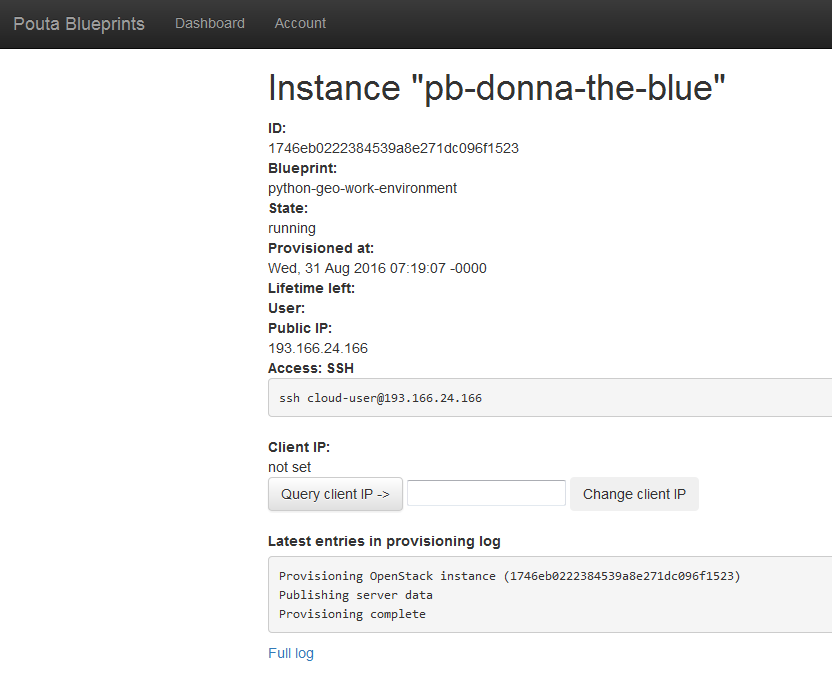
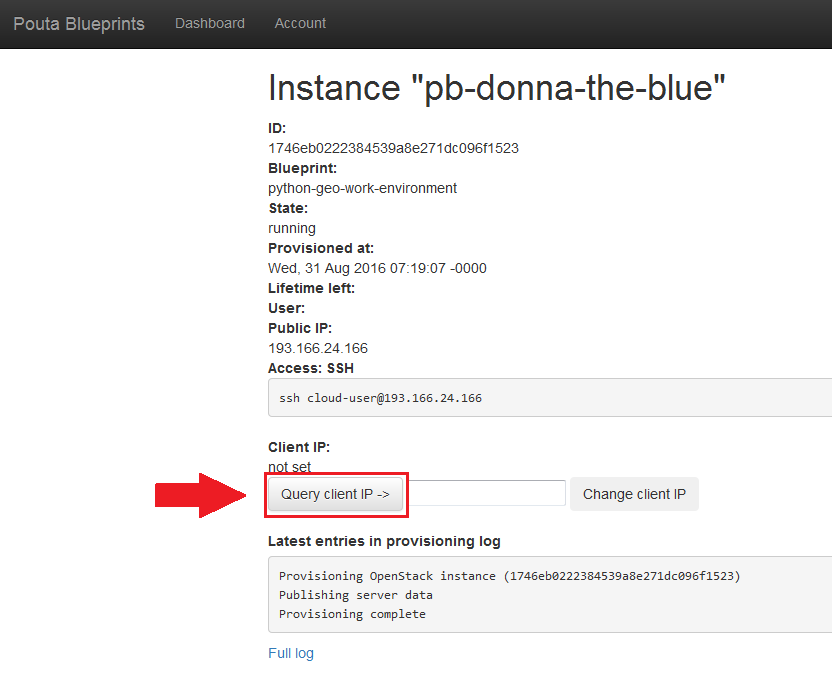
Added docs how to create a new instance and open a port by changing Firewall rules.

Changed region(s): [[0.1875, 0.6824, 0.5, 0.7755]]

diff --git a/launch-instance.md b/launch-instance.md
@@ -1,24 +1,36 @@
 # 1. Launch a new computer instance
 
 Launching a new instance is a straightforward procedure which is done from the Computing Dashboard. 
+Here we first launch a new Computer Instance and then open a port to it from your local computer's IP address (steps 5-6).
+A port in a computer is a somewhat similar idea than 
+having a door in a house: you cannot access the house without having an open door.
 
  1. Go with a browser to [pb-geo.helsinki.fi](pb-geo.helsinki.fi) OR WHATEVER THE ADDRESS WILL BE!
  
- 2. Log into Computing Dashboard
+ 2. Login to the Computing Dashboard
  
- 3. Launch a new instance
+   ![Login to Computing Dashboard](img/7_log_in.PNG)
+ 
+ 3. `Launch new` computer instance
+ 
+   ![Launch Computer Instance](img/8_launch_intance.PNG)
  
  4. Wait until instance is ready (you'll see WHAT?) and 
  go to instance details by pressing it's name 
  (here 'pb-donna-the-blue' but it changes every time)
-  
- 5. Press 'Query client IP' button
  
- 6. Press 'Change client IP' button
+   ![Go to instance details](img/9_go_to_instance_details.PNG)
+  
+ 5. Press `Query client IP` button
+ 
+   ![Query client IP](img/10_query_client_IP.PNG)
+ 
+ 6. Press `Change client IP` button
+ 
+   ![Change client IP](img/11_change_client_IP.PNG)
  
  7. Go back to Dashboard tab
-  
-Steps 5 and 6 are done to open a port to the computer instance from your local computer. A port in a computer is a somewhat similar idea than 
-having a door in a house: you cannot access the house without having an open door.
  
-Next step is to [connect to it](connect-to-instance.md).
+   ![Access Dashboard](img/12_go_back_to_dashboard.PNG)
+  
+Next step is to **[connect to it](connect-to-instance.md)**.

diff --git a/intro-to-course-environment.md b/intro-to-course-environment.md
@@ -1,15 +1,16 @@
 # Introduction to the course environment
 
 We'll start using the course environment by creating and activating a Computing Dashboard account and launching our first Computer Instance. 
+You will do the steps 2-3 repeatedly during the course so it will become familiar to you after awhile. 
 
 Here are the steps that you need to follow:
 
  1. [Activate your account to the computing dashboard\*\*](activate-pb-account.md)
  
- 2. [Log into the Computing Dashboard and start the computer instance](log-in-to-pb-and-access.md)
+ 2. [Log into the Computing Dashboard and launch a Computer Instance](launch-instance.md)
  
- 3. [Connect to the computer instance from you local computer](log-in-to-pb-and-access.md#access)
- 
+ 3. [Connect to Computer Instance from you local computer](connect-to-instance.md)
+
 \*\*done only once when starting the course
 
 ## Some basic principles about the course environment

diff --git a/connect-to-instance.md b/connect-to-instance.md
@@ -43,11 +43,11 @@ compared to TightVNC. However, it is highly recommendable option since it can be
   
   <img src="https://github.com/Python-for-geo-people/Intro-to-Python-I/blob/master/img/14_open_remote_desktop.PNG" width="400">
   
- 2. Paste the IP address of your computer instance that you copied in the previous step (2.1) and press 'Yhdistä' (eng. 'Connect')
+ 2. Paste the `IP address` of your computer instance that you copied in the previous step (2.1) and press `Yhdistä` (eng. 'Connect')
   
   ![Fill in the IP address](img/15_paste_ip_to_remote_desktop.PNG)
   
- 3. Log into the computer instance by pressing OK.
+ 3. `Login` to the computer instance by pressing OK.
  
   ![Press ok](img/16_log_into_server.PNG)
  
